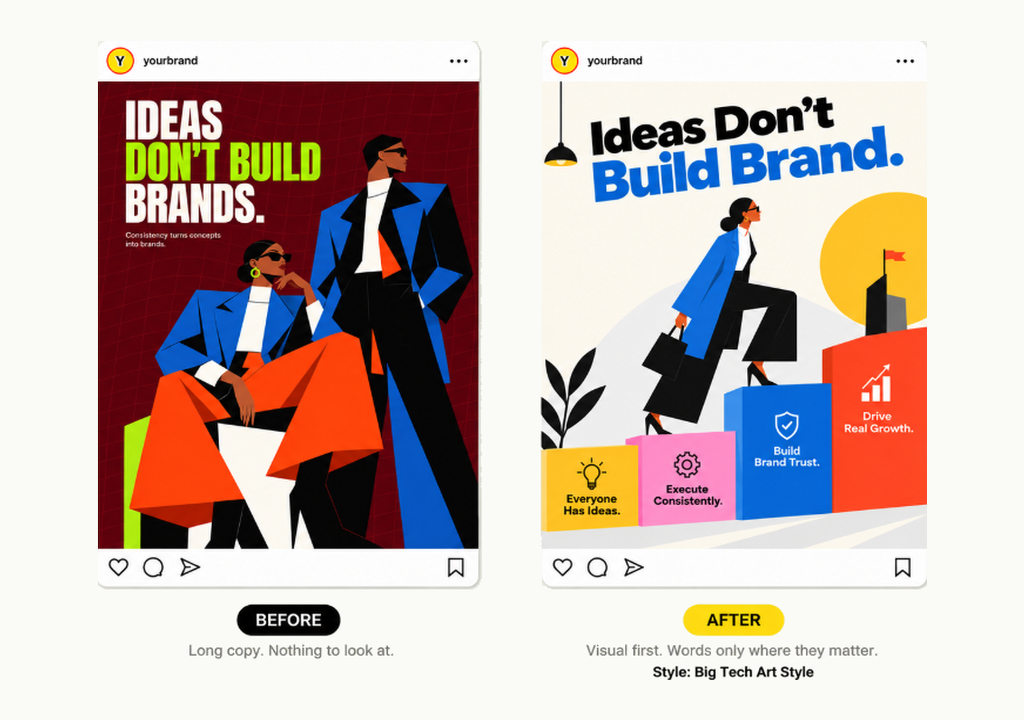
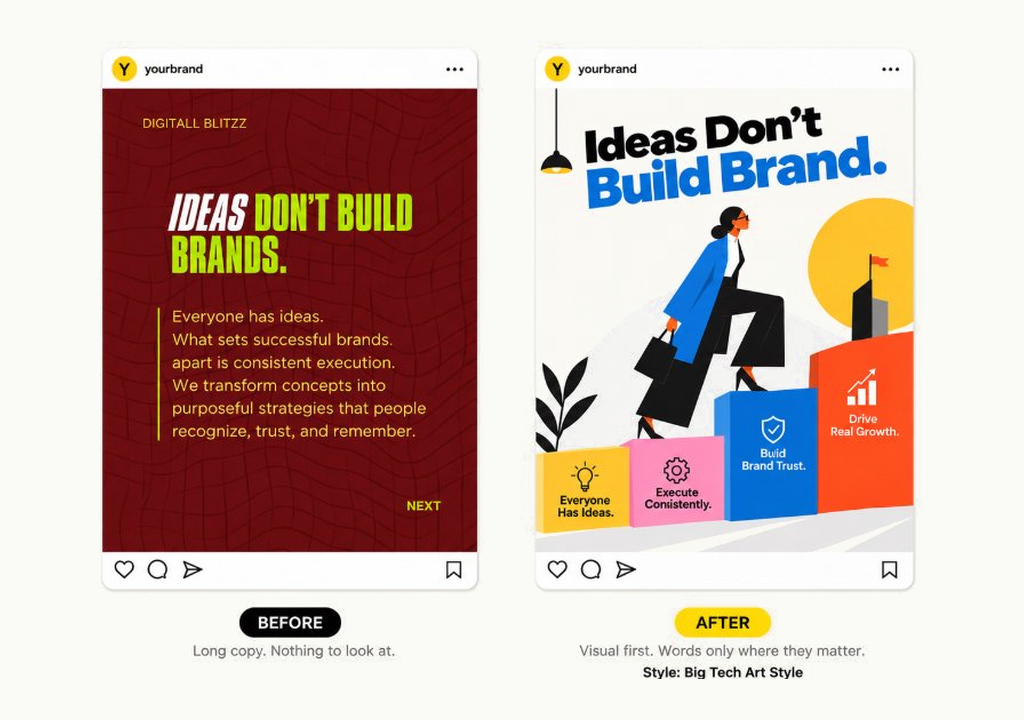
feat: separate commercial video ads with matching GIF sizing and update social transformation graphic

Changed region(s): [[0.0938, 0.0611, 0.4688, 0.9167], [0.5, 0.0611, 0.9062, 0.9472], [0.8125, 0.275, 0.8438, 0.3056]]

diff --git a/src/components/CreativeArtStylesSection.tsx b/src/components/CreativeArtStylesSection.tsx
@@ -6,7 +6,6 @@ interface ArtStyleItem {
   name: string;
   src: string;
   poster: string;
-  hasAudio?: boolean;
 }
 
 const ART_STYLES: ArtStyleItem[] = [
@@ -34,26 +33,33 @@ const ART_STYLES: ArtStyleItem[] = [
     src: '/showcase-gifs/showcase_4.mp4',
     poster: '/showcase-gifs/showcase_4.jpg',
   },
+];
+
+interface CommercialVideoItem {
+  id: string;
+  name: string;
+  src: string;
+  poster: string;
+}
+
+const COMMERCIAL_VIDEOS: CommercialVideoItem[] = [
   {
     id: 'artisanal-coffee-cafe',
     name: 'Artisanal Coffee & Cafe',
     src: '/videos/kafora-artisanal-coffee.mp4?v=1',
     poster: '/videos/posters/kafora-artisanal-coffee.jpg?v=1',
-    hasAudio: true,
   },
   {
     id: 'luxury-fragrance-lifestyle',
     name: 'Luxury Fragrance & Lifestyle',
     src: '/videos/zevaro-luxury-perfume.mp4?v=6',
     poster: '/videos/posters/zevaro-luxury-perfume.jpg?v=6',
-    hasAudio: true,
   },
   {
     id: 'minimalist-fashion-apparel',
     name: 'Minimalist Fashion & Apparel',
     src: '/videos/modest-fashion-apparel.mp4?v=6',
     poster: '/videos/posters/modest-fashion-apparel.jpg?v=6',
-    hasAudio: true,
   },
 ];
 
@@ -62,8 +68,9 @@ interface CreativeArtStylesSectionProps {
 }
 
 export const CreativeArtStylesSection: React.FC<CreativeArtStylesSectionProps> = () => {
-  const videoRefs = useRef<(HTMLVideoElement | null)[]>([]);
-  const progressBarRefs = useRef<{ [key: number]: HTMLDivElement | null }>({});
+  const gifVideoRefs = useRef<(HTMLVideoElement | null)[]>([]);
+  const commercialVideoRefs = useRef<(HTMLVideoElement | null)[]>([]);
+  const commercialProgressBarRefs = useRef<{ [key: number]: HTMLDivElement | null }>({});
   const sectionRef = useRef<HTMLElement>(null);
   
   const [activeModalStyle, setActiveModalStyle] = useState<ArtStyleItem | null>(null);
@@ -75,10 +82,8 @@ export const CreativeArtStylesSection: React.FC<CreativeArtStylesSectionProps> =
     if (!target) return;
 
     const startVisualVideos = () => {
-      videoRefs.current.forEach((video, idx) => {
+      gifVideoRefs.current.forEach((video) => {
         if (!video) return;
-        if (ART_STYLES[idx]?.hasAudio) return;
-
         video.defaultMuted = true;
         video.muted = true;
         const playPromise = video.play();
@@ -89,7 +94,12 @@ export const CreativeArtStylesSection: React.FC<CreativeArtStylesSectionProps> =
     };
 
     const pauseAllVideos = () => {
-      videoRefs.current.forEach((video) => {
+      gifVideoRefs.current.forEach((video) => {
+        if (video && !video.paused) {
+          video.pause();
+        }
+      });
+      commercialVideoRefs.current.forEach((video) => {
         if (video && !video.paused) {
           video.pause();
         }
@@ -144,15 +154,15 @@ export const CreativeArtStylesSection: React.FC<CreativeArtStylesSectionProps> =
   // Direct unmuted audio play/pause toggle with zero overlays or mute button
   const toggleAudioPlay = (idx: number, e: React.MouseEvent) => {
     e.stopPropagation();
-    const video = videoRefs.current[idx];
+    const video = commercialVideoRefs.current[idx];
     if (!video) return;
 
     if (!video.paused && playingAudioIndex === idx) {
       video.pause();
       setPlayingAudioIndex(null);
     } else {
-      // Pause any other active video
-      videoRefs.current.forEach((v, i) => {
+      // Pause any other active commercial video
+      commercialVideoRefs.current.forEach((v, i) => {
         if (v && i !== idx && !v.paused) {
           v.pause();
         }
@@ -174,8 +184,8 @@ export const CreativeArtStylesSection: React.FC<CreativeArtStylesSectionProps> =
   };
 
   const handleTimeUpdate = (idx: number) => {
-    const video = videoRefs.current[idx];
-    const bar = progressBarRefs.current[idx];
+    const video = commercialVideoRefs.current[idx];
+    const bar = commercialProgressBarRefs.current[idx];
     if (video && video.duration && bar) {
       const pct = (video.currentTime / video.duration) * 100;
       bar.style.width = `${pct}%`;
@@ -191,7 +201,7 @@ export const CreativeArtStylesSection: React.FC<CreativeArtStylesSectionProps> =
     >
       <div className="max-w-6xl mx-auto px-4 sm:px-6 lg:px-8 relative z-10">
         
-        {/* Header */}
+        {/* ================= SECTION 1: CHOOSE YOUR ART STYLE ================= */}
         <div className="text-center max-w-2xl mx-auto mb-8 sm:mb-12">
           <h2 className="text-3xl sm:text-5xl md:text-6xl font-heading font-black text-slate-950 tracking-tight leading-[1.12]">
             Choose your{' '}
@@ -205,116 +215,158 @@ export const CreativeArtStylesSection: React.FC<CreativeArtStylesSectionProps> =
           </p>
         </div>
 
-        {/* Art Styles Grid */}
-        <div className="flex flex-wrap justify-center gap-4 sm:gap-5 lg:gap-6 max-w-7xl mx-auto items-start">
-          {ART_STYLES.map((style, idx) => {
-            const isAudioVideo = Boolean(style.hasAudio);
-            const isPlayingThisAudio = playingAudioIndex === idx;
-
-            return (
+        {/* 4 Art Styles Grid (Same Layout & Sizing) */}
+        <div className="grid grid-cols-2 md:grid-cols-4 gap-4 sm:gap-6 max-w-5xl mx-auto items-start">
+          {ART_STYLES.map((style, idx) => (
+            <div
+              key={style.id}
+              className="group flex flex-col items-center w-full"
+            >
+              {/* Card Container */}
               <div
-                key={style.id}
-                className="group flex flex-col items-center w-[calc(50%-0.6rem)] sm:w-[calc(33.333%-1rem)] md:w-[calc(25%-1.2rem)] xl:flex-1 max-w-[190px] min-w-[135px]"
+                onClick={() => setActiveModalStyle(style)}
+                className="relative w-full aspect-[9/16] rounded-2xl sm:rounded-3xl overflow-hidden bg-black shadow-md border border-slate-200/90 hover:shadow-xl hover:border-slate-300 transition-all duration-300 cursor-pointer"
               >
-                {/* Card Container */}
-                <div
-                  onClick={(e) => {
-                    if (isAudioVideo) {
-                      toggleAudioPlay(idx, e);
-                    } else {
-                      setActiveModalStyle(style);
+                <video
+                  ref={(el) => {
+                    if (el) {
+                      el.defaultMuted = true;
+                      el.muted = true;
                     }
+                    gifVideoRefs.current[idx] = el;
                   }}
-                  className={`relative w-full aspect-[9/16] rounded-2xl sm:rounded-3xl overflow-hidden bg-black shadow-md border transition-all duration-300 cursor-pointer ${
-                    isPlayingThisAudio
-                      ? 'border-[#FF3B14]/80 shadow-[0_15px_35px_-5px_rgba(255,59,20,0.35)] ring-1 ring-[#FF3B14]/50'
-                      : 'border-slate-200/90 hover:shadow-xl hover:border-slate-300'
-                  }`}
+                  src={style.src}
+                  poster={style.poster}
+                  autoPlay
+                  loop
+                  muted
+                  playsInline
+                  preload="metadata"
+                  className="w-full h-full object-cover select-none pointer-events-none"
+                  aria-label={style.name}
                 >
-                  <video
-                    ref={(el) => {
-                      if (el && !isAudioVideo) {
-                        el.defaultMuted = true;
-                        el.muted = true;
-                      }
-                      videoRefs.current[idx] = el;
-                    }}
-                    src={style.src}
-                    poster={style.poster}
-                    autoPlay={!isAudioVideo}
-                    loop
-                    muted={!isAudioVideo}
-                    playsInline
-                    preload={isAudioVideo ? 'metadata' : 'auto'}
-                    onTimeUpdate={isAudioVideo ? () => handleTimeUpdate(idx) : undefined}
-                    onEnded={
-                      isAudioVideo
-                        ? () => {
-                            setPlayingAudioIndex(null);
-                            if (progressBarRefs.current[idx]) {
-                              progressBarRefs.current[idx]!.style.width = '0%';
-                            }
-                          }
-                        : undefined
-                    }
-                    className="w-full h-full object-cover select-none pointer-events-none"
-                    aria-label={style.name}
+                  <source src={style.src} type="video/mp4" />
+                </video>
+              </div>
+
+              {/* Caption: Art-style name */}
+              <p className="mt-3 sm:mt-4 text-center font-heading font-bold text-sm sm:text-base text-slate-900 group-hover:text-[#FF3B14] transition-colors leading-snug">
+                {style.name}
+              </p>
+            </div>
+          ))}
+        </div>
+
+        {/* ================= SECTION 2: BRAND & COMMERCIAL VIDEO ADS ================= */}
+        <div className="mt-16 sm:mt-24 pt-12 sm:pt-16 border-t border-slate-200/80">
+          
+          {/* Header */}
+          <div className="text-center max-w-2xl mx-auto mb-8 sm:mb-12">
+            <h2 className="text-3xl sm:text-5xl md:text-6xl font-heading font-black text-slate-950 tracking-tight leading-[1.12]">
+              Turning ideas into{' '}
+              <span className="font-editorial-italic font-normal italic text-[#FF3B14]">
+                visual impact
+              </span>.
+            </h2>
+
+            <p className="mt-3 sm:mt-4 text-sm sm:text-base text-slate-600 max-w-lg mx-auto font-normal leading-relaxed">
+              We make videos that tell your brand’s story, grab attention, and get people interested in what you offer.
+            </p>
+          </div>
+
+          {/* 3 Commercial Videos Grid - Exact Same Card Size and Layout as the GIFs above */}
+          <div className="flex flex-wrap justify-center gap-4 sm:gap-6 max-w-5xl mx-auto items-start">
+            {COMMERCIAL_VIDEOS.map((video, idx) => {
+              const isPlaying = playingAudioIndex === idx;
+
+              return (
+                <div
+                  key={video.id}
+                  className="group flex flex-col items-center w-[calc(50%-0.5rem)] sm:w-[calc(50%-0.75rem)] md:w-[calc(25%-1.125rem)]"
+                >
+                  {/* Card Container */}
+                  <div
+                    onClick={(e) => toggleAudioPlay(idx, e)}
+                    className={`relative w-full aspect-[9/16] rounded-2xl sm:rounded-3xl overflow-hidden bg-black shadow-md border transition-all duration-300 cursor-pointer ${
+                      isPlaying
+                        ? 'border-[#FF3B14]/80 shadow-[0_15px_35px_-5px_rgba(255,59,20,0.35)] ring-1 ring-[#FF3B14]/50'
+                        : 'border-slate-200/90 hover:shadow-xl hover:border-slate-300'
+                    }`}
                   >
-                    <source src={style.src} type="video/mp4" />
-                  </video>
+                    <video
+                      ref={(el) => {
+                        commercialVideoRefs.current[idx] = el;
+                      }}
+                      src={video.src}
+                      poster={video.poster}
+                      loop
+                      playsInline
+                      preload="metadata"
+                      onTimeUpdate={() => handleTimeUpdate(idx)}
+                      onEnded={() => {
+                        setPlayingAudioIndex(null);
+                        if (commercialProgressBarRefs.current[idx]) {
+                          commercialProgressBarRefs.current[idx]!.style.width = '0%';
+                        }
+                      }}
+                      className="w-full h-full object-cover select-none pointer-events-none"
+                      aria-label={video.name}
+                    >
+                      <source src={video.src} type="video/mp4" />
+                    </video>
 
-                  {/* Clean HD Poster Overlay when Paused */}
-                  {isAudioVideo && !isPlayingThisAudio && style.poster && (
-                    <img
-                      src={style.poster}
-                      alt={style.name}
-                      className="absolute inset-0 w-full h-full object-cover z-10 pointer-events-none transition-opacity duration-200"
-                      loading="eager"
-                    />
-                  )}
+                    {/* Clean HD Poster Overlay when Paused */}
+                    {!isPlaying && video.poster && (
+                      <img
+                        src={video.poster}
+                        alt={video.name}
+                        className="absolute inset-0 w-full h-full object-cover z-10 pointer-events-none transition-opacity duration-200"
+                        loading="eager"
+                      />
+                    )}
 
-                  {/* Centered Play Button when Paused (clean, no badge or sticker overlays) */}
-                  {isAudioVideo && !isPlayingThisAudio && (
-                    <div className="absolute inset-0 flex items-center justify-center bg-black/20 pointer-events-none z-20">
-                      <div className="w-12 h-12 sm:w-14 sm:h-14 rounded-full bg-[#FF3B14]/95 hover:bg-[#FF3B14] backdrop-blur-md text-white flex items-center justify-center shadow-[0_0_30px_rgba(255,59,20,0.65)] group-hover:scale-110 active:scale-95 transition-all border border-white/40">
-                        <Play className="w-5 h-5 sm:w-6 sm:h-6 fill-white ml-0.5 text-white" />
+                    {/* Centered Play Button when Paused (clean, no badge or sticker overlays) */}
+                    {!isPlaying && (
+                      <div className="absolute inset-0 flex items-center justify-center bg-black/20 pointer-events-none z-20">
+                        <div className="w-12 h-12 sm:w-14 sm:h-14 rounded-full bg-[#FF3B14]/95 hover:bg-[#FF3B14] backdrop-blur-md text-white flex items-center justify-center shadow-[0_0_30px_rgba(255,59,20,0.65)] group-hover:scale-110 active:scale-95 transition-all border border-white/40">
+                          <Play className="w-5 h-5 sm:w-6 sm:h-6 fill-white ml-0.5 text-white" />
+                        </div>
                       </div>
-                    </div>
-                  )}
+                    )}
 
-                  {/* Hover Pause Indicator when Playing */}
-                  {isAudioVideo && isPlayingThisAudio && (
-                    <div className="absolute inset-0 flex items-center justify-center opacity-0 group-hover:opacity-100 transition-opacity bg-black/20 pointer-events-none z-20">
-                      <div className="w-12 h-12 rounded-full bg-black/70 backdrop-blur-md text-white flex items-center justify-center shadow-lg border border-white/20">
-                        <Pause className="w-5 h-5 fill-white text-white" />
+                    {/* Hover Pause Indicator when Playing */}
+                    {isPlaying && (
+                      <div className="absolute inset-0 flex items-center justify-center opacity-0 group-hover:opacity-100 transition-opacity bg-black/20 pointer-events-none z-20">
+                        <div className="w-12 h-12 rounded-full bg-black/70 backdrop-blur-md text-white flex items-center justify-center shadow-lg border border-white/20">
+                          <Pause className="w-5 h-5 fill-white text-white" />
+                        </div>
                       </div>
-                    </div>
-                  )}
+                    )}
 
-                  {/* Bottom Scrubber Progress Bar */}
-                  {isAudioVideo && (
+                    {/* Bottom Scrubber Progress Bar */}
                     <div className="absolute bottom-2.5 inset-x-3 z-20 flex flex-col gap-1 pointer-events-none">
                       <div className="w-full h-1 bg-white/25 rounded-full overflow-hidden">
                         <div
                           ref={(el) => {
-                            progressBarRefs.current[idx] = el;
+                            commercialProgressBarRefs.current[idx] = el;
                           }}
                           className="h-full bg-[#FF3B14] rounded-full transition-all duration-75"
                           style={{ width: '0%' }}
                         />
                       </div>
                     </div>
-                  )}
 
+                  </div>
+
+                  {/* Caption: Brand / ad name */}
+                  <p className="mt-3 sm:mt-4 text-center font-heading font-bold text-sm sm:text-base text-slate-900 group-hover:text-[#FF3B14] transition-colors leading-snug">
+                    {video.name}
+                  </p>
                 </div>
+              );
+            })}
+          </div>
 
-                {/* Caption: Art-style name */}
-                <p className="mt-3 sm:mt-4 text-center font-heading font-bold text-sm sm:text-base text-slate-900 group-hover:text-[#FF3B14] transition-colors leading-snug">
-                  {style.name}
-                </p>
-              </div>
-            );
-          })}
         </div>
 
       </div>
@@ -348,15 +400,14 @@ export const CreativeArtStylesSection: React.FC<CreativeArtStylesSectionProps> =
                 loop
                 muted
                 playsInline
-                preload="auto"
                 className="w-full h-full object-cover"
               />
             </div>
 
             <div className="mt-3 text-center">
-              <p className="font-heading font-bold text-base text-slate-900">
+              <h3 className="text-base sm:text-lg font-heading font-black text-slate-900">
                 {activeModalStyle.name}
-              </p>
+              </h3>
             </div>
           </div>
         </div>

diff --git a/src/components/SocialMediaMgmtSection.tsx b/src/components/SocialMediaMgmtSection.tsx
@@ -38,7 +38,7 @@ const TRANSFORMATION_SLIDES: SocialTransformationItem[] = [
     id: 'brand-strategy',
     title: 'Brand Strategy • Tech & Corporate Identity',
     tag: 'Branding & Corporate Identity',
-    image: '/images/social-transform-brandstrategy.png?v=3',
+    image: '/images/social-transform-brandstrategy.png?v=4',
     headline: 'Less text. More story.',
     style: 'Big Tech Art Style',
   },
